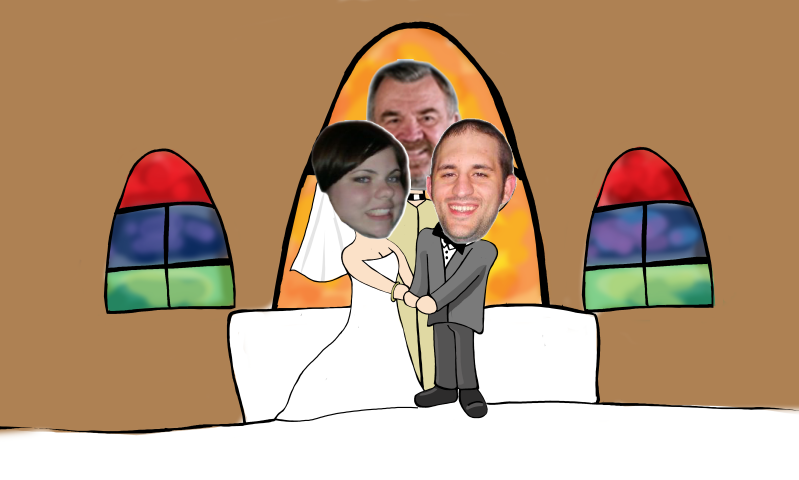
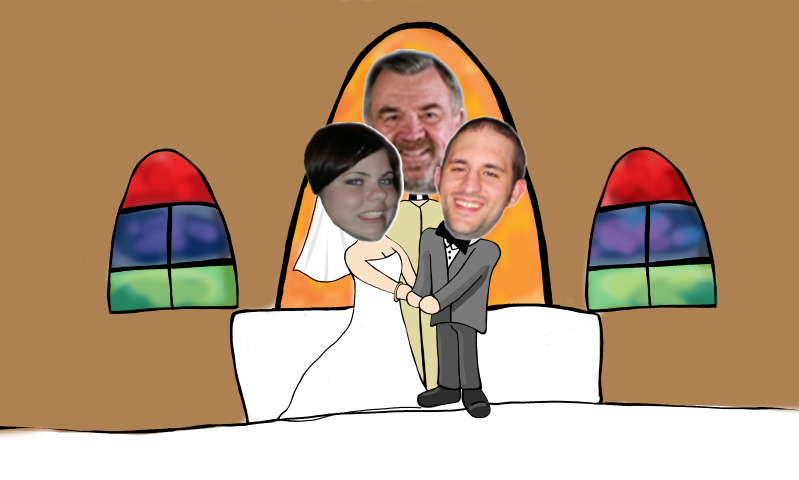
New background images

diff --git a/WeddingGame/WeddingGame/Levels/MainGame.cs b/WeddingGame/WeddingGame/Levels/MainGame.cs
@@ -47,12 +47,17 @@ namespace WeddingGame.Levels
          {
             _leftBarrier = DrawingHelper.Graphics.PreferredBackBufferWidth / 3.0;
             _rightBarrier = _leftBarrier * 2;
+            var waveTime = 30;
 
             _waveManager = new WaveManager();
             _waveManager.AddWaves( new Wave[]
-            {
-               new Wave("Wave 1", 10, 2, 2, false, false),
-               new Wave("Wave 2", 30, 2, 2, true, true)
+            {               
+               new Wave("Wave 1", waveTime, 3, 3, false, false),           
+               new Wave("Wave 2", waveTime, 2, 2, true, false),
+               new Wave("Wave 3", waveTime, 1.5, 1.5, true, true),
+               new Wave("Wave 4", waveTime, 1.0, 1.0, false, false),
+               new Wave("Wave 5", waveTime, 1.0, 1.0, true, false),
+               new Wave("Wave 6", waveTime, 1.0, 1.0, true, true),
             } );
 
             _waveManager.WaveComplete += WaveComplete;
@@ -304,13 +309,13 @@ namespace WeddingGame.Levels
          _dunkHead = null;
          _background = null;
 
-         _background = DrawingHelper.GetTexture( "background" );
+         _background = DrawingHelper.GetTexture( "background_nofaces" );
 
          if ( _brettHead == null )
          {
-            _brettHead = new Head( "BrettNormal", "BrettOpen", new Vector2( 425, 120 ), new Vector2( 425, 120 ) );
-            _laynaHead = new Head( "LaynaNormal", "LaynaOpen", new Vector2( 310, 120 ), new Vector2( 290, 125 ) );
-            _dunkHead = new Head( "DunkNormal", "DunkOpen", new Vector2( 360, 50 ), new Vector2( 330, 50 ) );
+            _brettHead = new Head( "BrettNormal", "BrettOpen", new Vector2( 430, 115 ), new Vector2( 425, 120 ) );
+            _laynaHead = new Head( "LaynaNormal", "LaynaOpen", new Vector2( 300, 120 ), new Vector2( 290, 125 ) );
+            _dunkHead = new Head( "DunkNormal", "DunkOpen", new Vector2( 363, 45 ), new Vector2( 330, 50 ) );
 
             _brettHead.LoadContent();
             _laynaHead.LoadContent();
